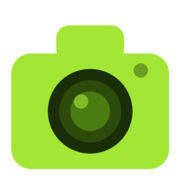
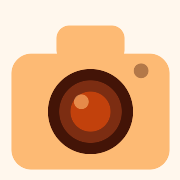
Rebrand assets to peach; Fix expiry calculation; calendar picker

diff --git a/components/relative-expiry.tsx b/components/relative-expiry.tsx
@@ -1,54 +1,12 @@
 "use client";
 
 import { useCallback, useEffect, useState } from "react";
-
-function formatNum(n: number): string {
-  const rounded = Math.round(n * 10) / 10;
-  return rounded % 1 === 0 ? String(Math.round(rounded)) : String(rounded);
-}
-
-function formatRelativeExpiry(expiryAt: string): string {
-  const now = Date.now();
-  const expiry = new Date(expiryAt).getTime();
-  const diffMs = expiry - now;
-
-  if (diffMs <= 0) {
-    // Past: show how long ago it expired
-    const absDiffMs = Math.abs(diffMs);
-    const days = Math.floor(absDiffMs / 86_400_000);
-    const hours = Math.floor(absDiffMs / 3_600_000);
-    const minutes = Math.floor(absDiffMs / 60_000);
-
-    if (minutes < 1) return "just now";
-    if (minutes < 60) return `${minutes} minute${minutes === 1 ? "" : "s"} ago`;
-    if (hours < 24) return `${hours} hour${hours === 1 ? "" : "s"} ago`;
-    if (days < 7) return `${days} day${days === 1 ? "" : "s"} ago`;
-    const weeks = Math.floor(days / 7);
-    if (weeks < 5) return `${weeks} week${weeks === 1 ? "" : "s"} ago`;
-    const months = Math.floor(days / 30);
-    return `${months} month${months === 1 ? "" : "s"} ago`;
-  }
-
-  // Future
-  const diffDays = diffMs / (1000 * 60 * 60 * 24);
-  if (diffDays < 1) return "in less than a day";
-  if (diffDays < 14)
-    return `in ${Math.round(diffDays)} day${Math.round(diffDays) === 1 ? "" : "s"}`;
-  const diffMonths = diffDays / 30.44;
-  if (diffMonths < 1) {
-    const diffWeeks = diffDays / 7;
-    return `in ${formatNum(diffWeeks)} weeks`;
-  }
-  if (diffMonths < 12)
-    return `in ${formatNum(diffMonths)} month${Math.round(diffMonths * 10) / 10 === 1 ? "" : "s"}`;
-  const diffYears = diffDays / 365.25;
-  return `in ${formatNum(diffYears)} year${Math.round(diffYears * 10) / 10 === 1 ? "" : "s"}`;
-}
+import { formatDistanceToNow } from "date-fns";
 
 /**
  * Renders a relative expiry label that updates every minute.
  *
- * - Future dates: "in 3 days", "in 1.5 months"
+ * - Future dates: "in 3 days", "in about 2 months"
  * - Past dates:   "5 minutes ago", "2 days ago"
  */
 export function RelativeExpiry({ date }: { date: string }) {
@@ -61,5 +19,5 @@ export function RelativeExpiry({ date }: { date: string }) {
     return () => clearInterval(id);
   }, [refresh]);
 
-  return <>{formatRelativeExpiry(date)}</>;
+  return <>{formatDistanceToNow(new Date(date), { addSuffix: true })}</>;
 }

diff --git a/app/layout.tsx b/app/layout.tsx
@@ -70,7 +70,7 @@ export default function RootLayout({
         <link rel="icon" href="/favicon.svg" type="image/svg+xml" />
         <link rel="icon" href="/favicon-192.png" type="image/png" />
         <link rel="apple-touch-icon" href="/apple-touch-icon.png" />
-        <meta name="theme-color" content="#a3e635" />
+        <meta name="theme-color" content="#fdba74" />
       </head>
       <body
         className={`${sora.variable} ${dmSans.variable} antialiased ${isDark ? "dark" : ""}`}

diff --git a/app/(dashboard)/dashboard/page.tsx b/app/(dashboard)/dashboard/page.tsx
@@ -128,9 +128,9 @@ function computeExpiryDate(
       return null;
     case "custom": {
       if (!customDate) return null;
-      // Set to end of the selected day
       const date = new Date(customDate);
-      date.setHours(23, 59, 59, 999);
+      const now = new Date();
+      date.setHours(now.getHours(), now.getMinutes(), now.getSeconds(), 0);
       return date.toISOString();
     }
     default:

diff --git a/app/(dashboard)/dashboard/gallery/[galleryId]/page.tsx b/app/(dashboard)/dashboard/gallery/[galleryId]/page.tsx
@@ -128,7 +128,8 @@ function computeExpiryDate(
     case "custom": {
       if (!customDate) return null;
       const date = new Date(customDate);
-      date.setHours(23, 59, 59, 999);
+      const now = new Date();
+      date.setHours(now.getHours(), now.getMinutes(), now.getSeconds(), 0);
       return date.toISOString();
     }
     default:
